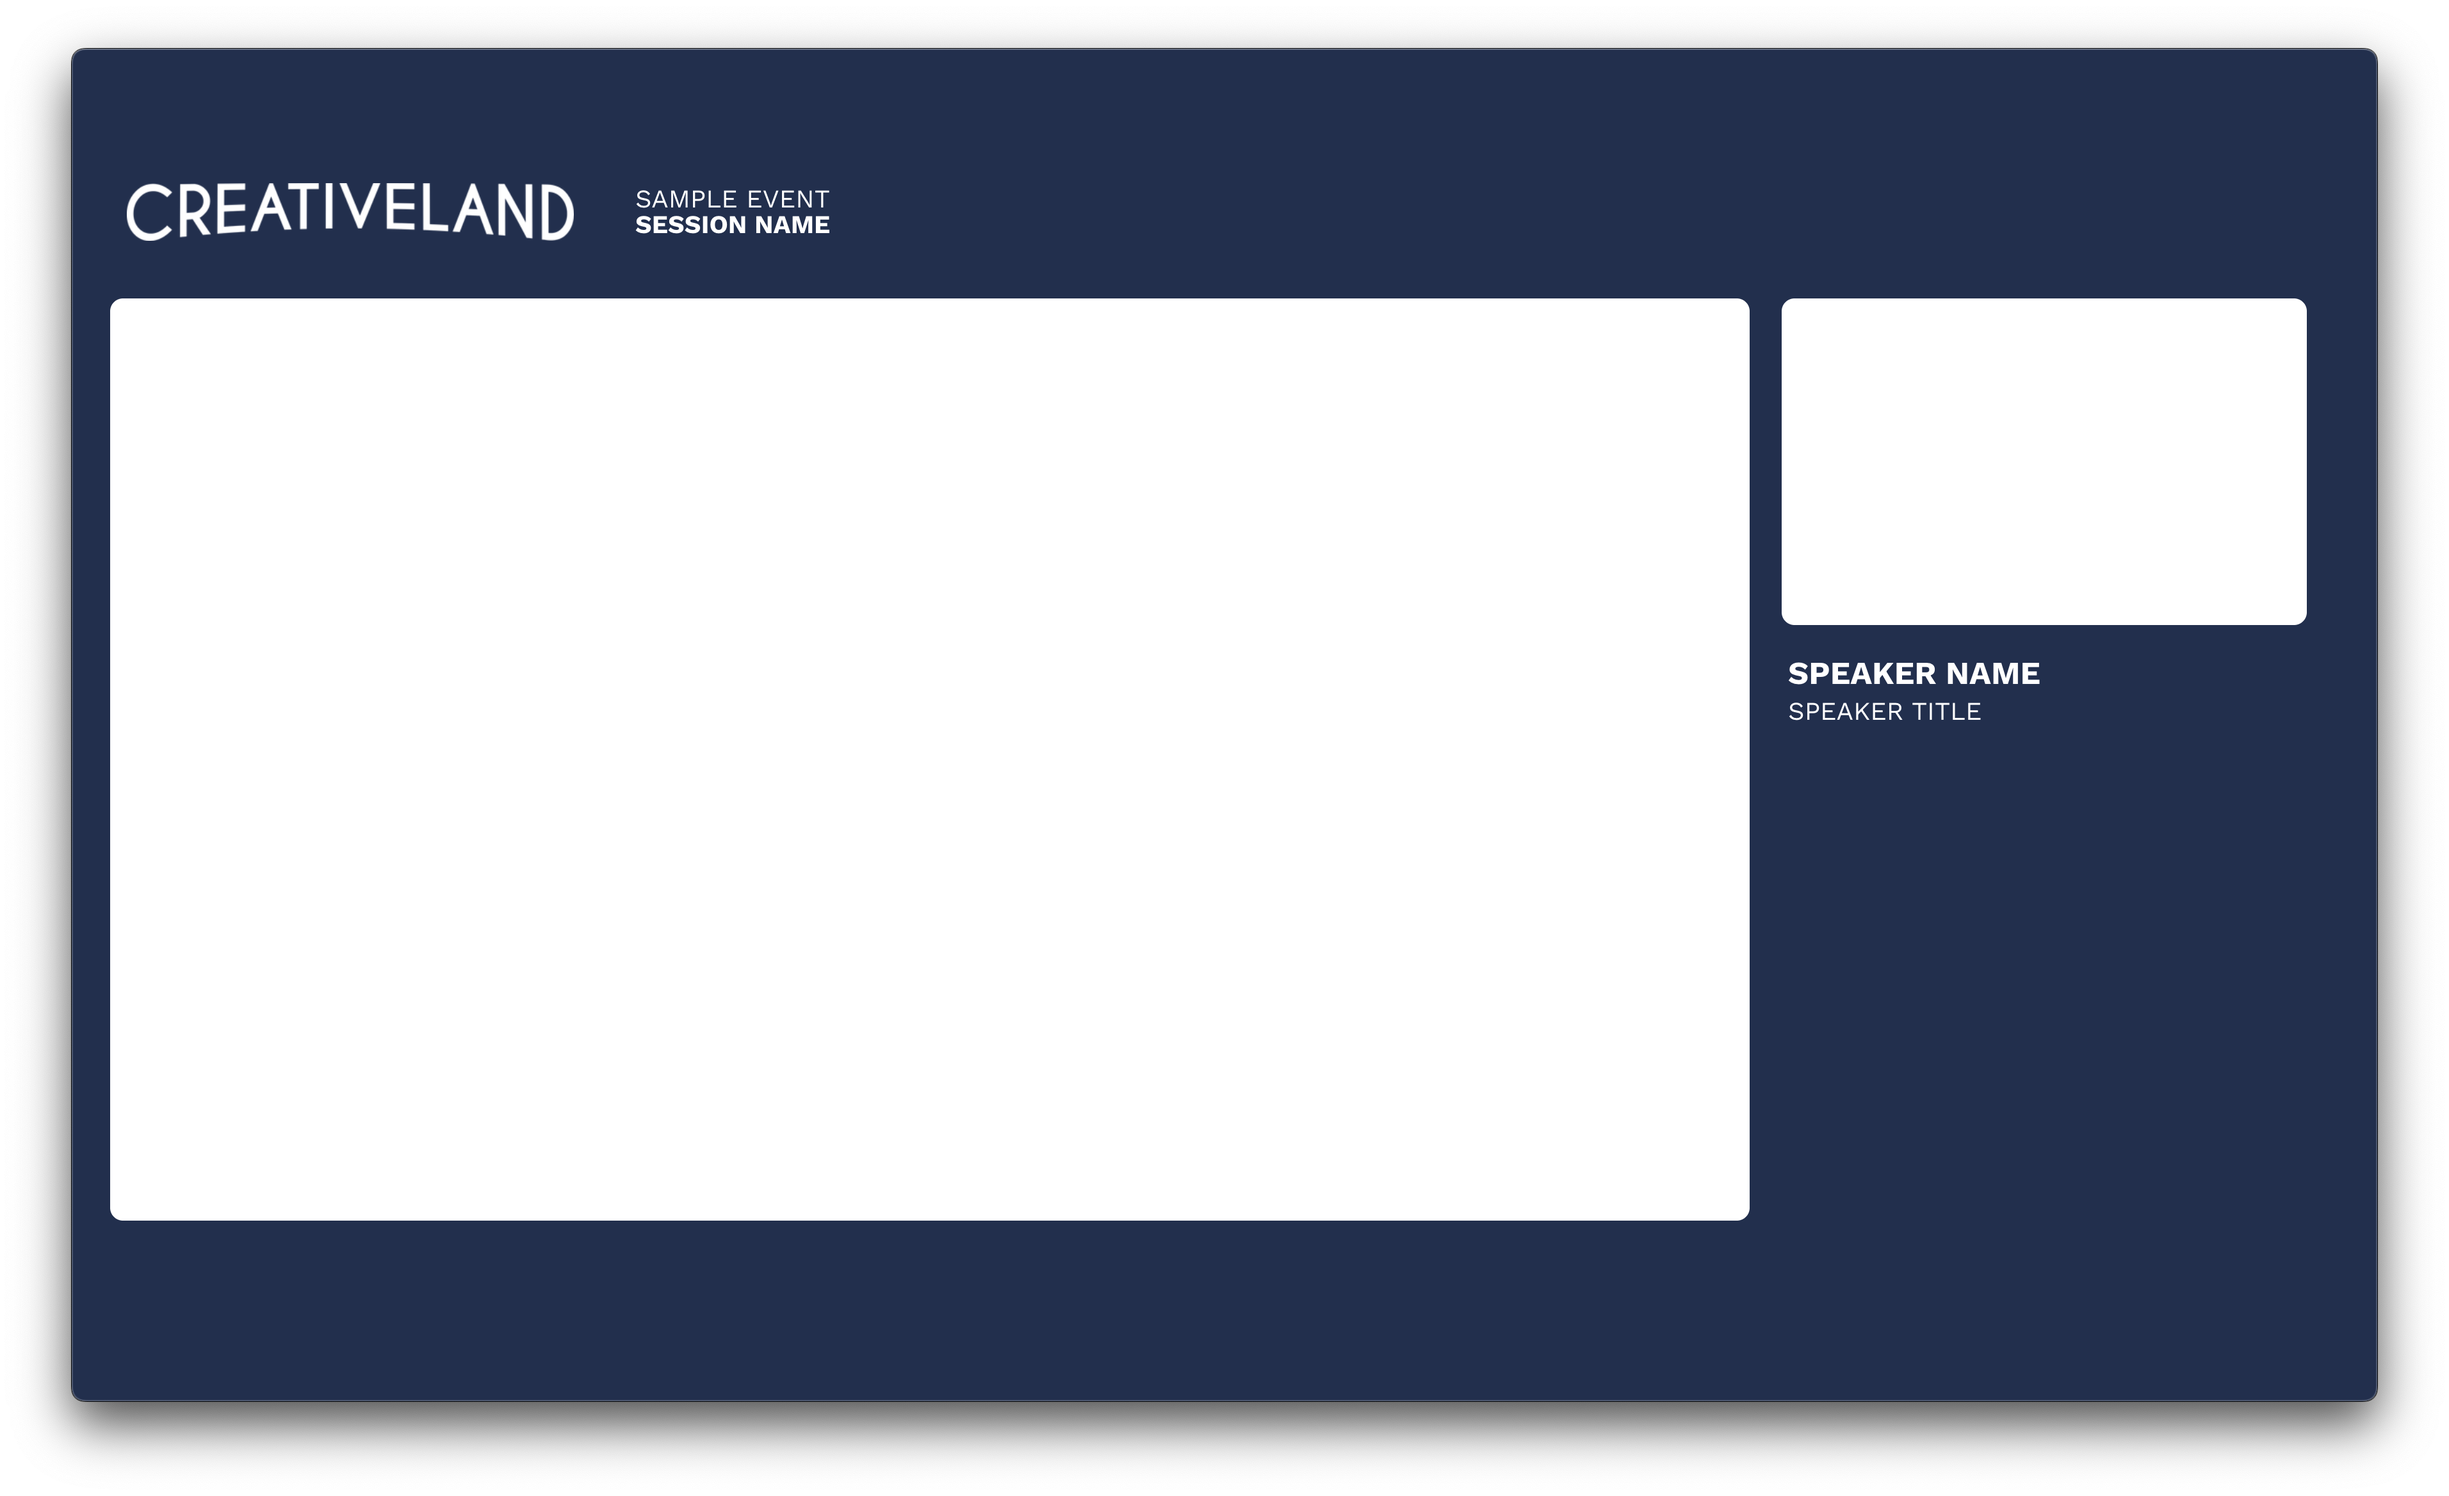
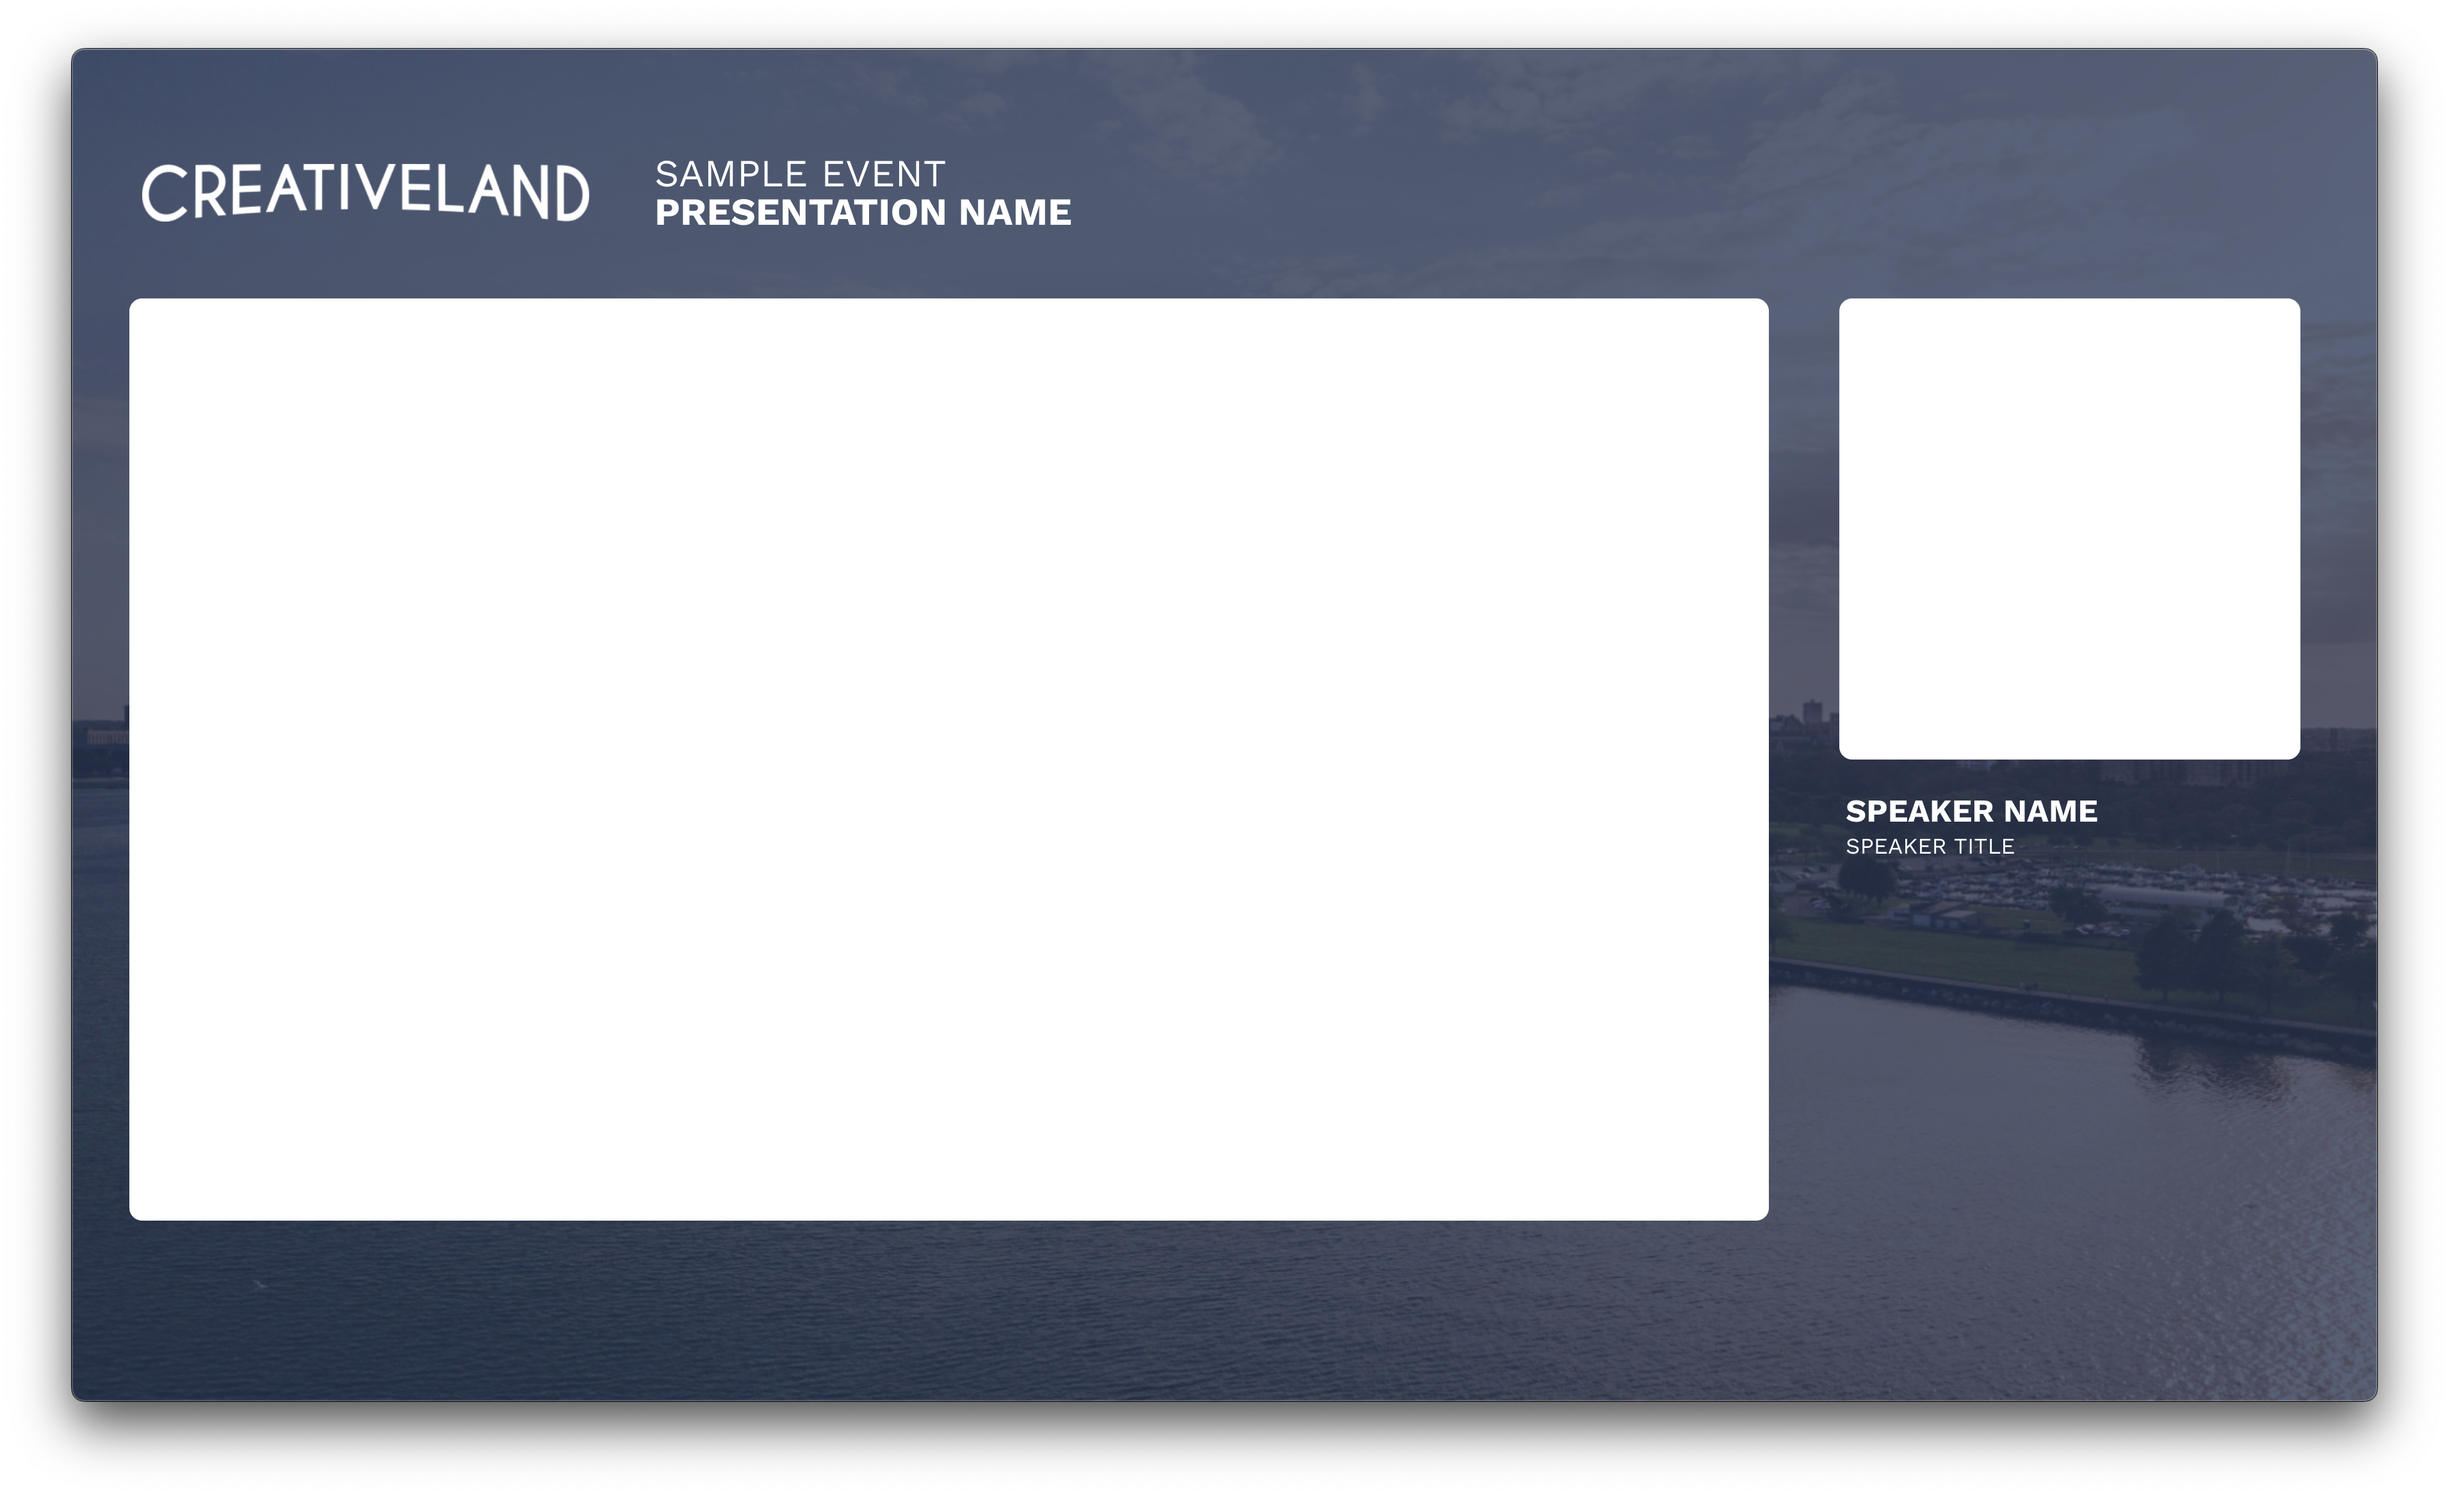
Update README with PiP Box Demo

Changed region(s): [[0.0311, 0.0312, 0.9958, 0.9375]]

diff --git a/README.md b/README.md
@@ -24,7 +24,7 @@ There is a TestFlight beta test for iPhone and iPad. To be added to the beta, co
 
 | ![PiP Box Demo](https://raw.githubusercontent.com/tomhillmeyer/companion-dashboard/refs/heads/main/screenshots/pip-box-example.png) | 
 |:--:| 
-| *An out-of-the-box example of how flexible this application can be. This creates a background for a two-box look with dynamic fields for presentation and speaker names.* |
+| *An out-of-the-box example of how flexible this application can be. This creates a background for a two-box look with dynamic fields for presentation and speaker names. Learn how this specific layout goes together [here](https://wearecreativeland.com/tools/dashboard/pip-box-example)* |
 
 ## Use cases
 
